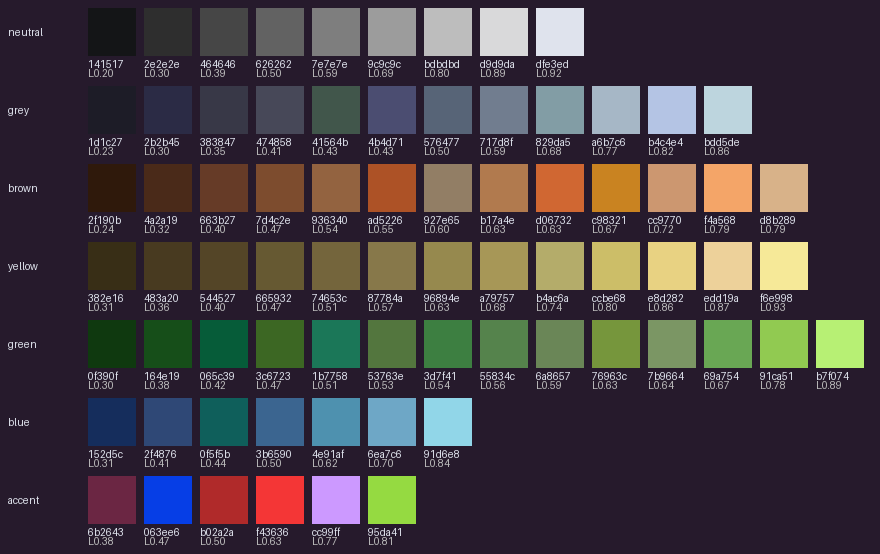
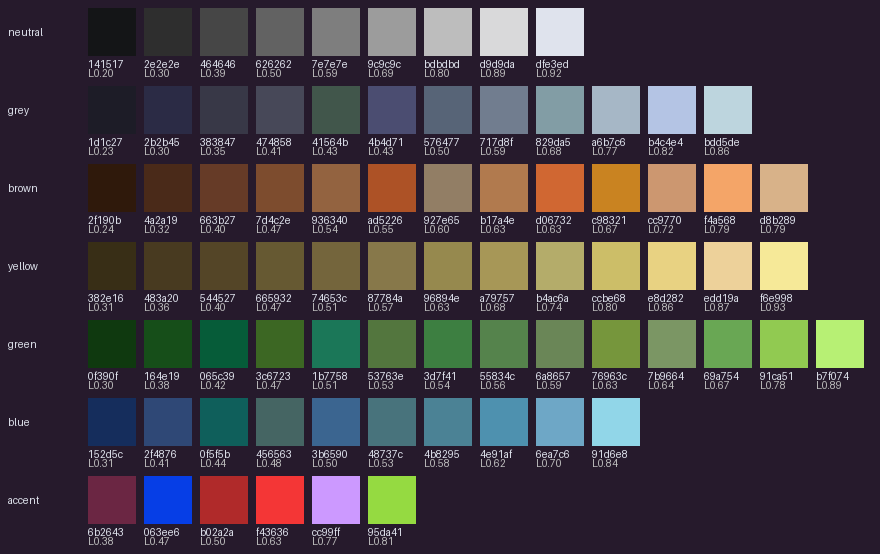
Overworld: swamp water tints in four steps away from open water; the sea sways
- three lake-to-murk OKLab blends added to the blue ramp (77 colours),
  kept out of pack quantization; theme/debug blue indices renumbered
- swampLevels: capped BFS through water; one shader pass per tint step,
  each dithered at its edge like a shade overlay

Changed region(s): [[0.2761, 0.7058, 0.7364, 0.8592]]

diff --git a/src/render/overworld_renderer.cpp b/src/render/overworld_renderer.cpp
@@ -265,6 +265,7 @@ void OverworldRenderer::loadTextures() {
   m_locLayer = GetShaderLocation(m_fade, "layer");
   m_locSwampWater = GetShaderLocation(m_fade, "swampWater");
   m_locSway = GetShaderLocation(m_fade, "sway");
+  m_locLevel = GetShaderLocation(m_fade, "level");
 }
 
 Color OverworldRenderer::biomeColour(Biome b) {
@@ -325,6 +326,32 @@ void OverworldRenderer::shareWithin(const std::vector<uint8_t> &in,
   }
 }
 
+void OverworldRenderer::swampLevels(const std::vector<uint8_t> &water,
+                                    const std::vector<uint8_t> &swamp, int w, int h,
+                                    std::vector<uint8_t> &out) {
+  const int n = w * h;
+  out.assign(n, (uint8_t)kSwampSteps);
+  std::vector<int> queue;
+  for (int k = 0; k < n; ++k)
+    if (water[k] && !swamp[k]) {
+      out[k] = 0;
+      queue.push_back(k);
+    }
+  for (size_t head = 0; head < queue.size(); ++head) {
+    const int k = queue[head], x = k % w, y = k / w;
+    if (out[k] + 1 >= kSwampSteps)
+      continue;
+    for (int dy = -1; dy <= 1; ++dy)
+      for (int dx = -1; dx <= 1; ++dx) {
+        const int nx = x + dx, ny = y + dy, nk = ny * w + nx;
+        if (nx < 0 || ny < 0 || nx >= w || ny >= h || !swamp[nk] || out[nk] <= out[k] + 1)
+          continue;
+        out[nk] = (uint8_t)(out[k] + 1);
+        queue.push_back(nk);
+      }
+  }
+}
+
 void OverworldRenderer::renderTerrain(const Overworld &world,
                                       const Camera2D &camera,
                                       const Viewport &canvas, float time) {
@@ -335,9 +362,7 @@ void OverworldRenderer::renderTerrain(const Overworld &world,
   m_time = time;
   m_world = &world;
 
-  // Dual-grid vertices x0..x0+w each read the cells on both sides, and a
-  // fade weight reads kFadeRadius further: the cache reaches that far out.
-  constexpr int kMargin = 1 + kFadeRadius;
+  constexpr int kMargin = kCacheMargin;
   m_cellsX0 = x0 - kMargin;
   m_cellsY0 = y0 - kMargin;
   m_cellsW = w + 2 * kMargin;
@@ -371,9 +396,9 @@ void OverworldRenderer::renderTerrain(const Overworld &world,
                        {0, 0}, 0.0f, WHITE);
         continue;
       }
-      // Still water, by world position; lakes sway, the sea does not.
-      const int s = c.biome == Biome::OCEAN ? 0 : sway;
-      Rectangle src = {(float)(x * grid::SOURCE_TILE + s), (float)(y * grid::SOURCE_TILE + s),
+      // Still water, by world position, swaying.
+      Rectangle src = {(float)(x * grid::SOURCE_TILE + sway),
+                       (float)(y * grid::SOURCE_TILE + sway),
                        (float)grid::SOURCE_TILE, (float)grid::SOURCE_TILE};
       DrawTexturePro(m_water, src, grid::destFor(src, x * grid::CELL, y * grid::CELL),
                      {0, 0}, 0.0f, WHITE);
@@ -420,19 +445,20 @@ void OverworldRenderer::drawGlints(int x0, int y0, int w, int h) const {
 
 // Per cell of the view (plus the one-cell rim the dual grid reads): how much
 // of each land fade material is there - its share of the grass's cells
-// within kFadeRadius, so a shore never thins a fade - and which cells are
-// land and which swamp water. Uploaded as two small textures; the shader
-// reads the weights bilinear and the flags per cell. Also marks how near a
+// within kFadeRadius, so a shore never thins a fade - which cells are land,
+// and each water cell's swamp step. Uploaded as two small textures; the
+// shader reads the weights bilinear and the rest per cell. Also marks how near a
 // beach each cache cell is, for the bank rows.
 void OverworldRenderer::buildFades(int x0, int y0, int w, int h) {
   const int n = m_cellsW * m_cellsH;
-  std::vector<uint8_t> land(n), all(n, 1);
+  std::vector<uint8_t> land(n), water(n), all(n, 1), levels;
   std::vector<uint8_t> in[6]; // wetland, gravel, snow, drift, swamp, beach
   for (auto &v : in)
     v.resize(n);
   for (int k = 0; k < n; ++k) {
     const Cell &c = m_cells[k];
     land[k] = inLayer(GRASS, c.biome, c.shade);
+    water[k] = isWater(c.biome);
     in[0][k] = c.biome == Biome::WETLAND;
     in[1][k] = c.biome == Biome::MOUNTAIN || c.biome == Biome::SNOW; // gravel runs under snow
     in[2][k] = c.biome == Biome::SNOW;
@@ -443,6 +469,7 @@ void OverworldRenderer::buildFades(int x0, int y0, int w, int h) {
   std::vector<float> share[4], beach1, beach2;
   for (int f = 0; f < 4; ++f)
     shareWithin(in[f], land, m_cellsW, m_cellsH, kFadeRadius, share[f]);
+  swampLevels(water, in[4], m_cellsW, m_cellsH, levels);
   shareWithin(in[5], all, m_cellsW, m_cellsH, 1, beach1);
   shareWithin(in[5], all, m_cellsW, m_cellsH, 2, beach2);
   for (int k = 0; k < n; ++k)
@@ -459,11 +486,13 @@ void OverworldRenderer::buildFades(int x0, int y0, int w, int h) {
     u = false;
   for (int j = 0; j < th; ++j) {
     for (int i = 0; i < tw; ++i) {
-      const int k = (j + kFadeRadius) * m_cellsW + (i + kFadeRadius);
+      const int k = (j + kCacheMargin - 1) * m_cellsW + (i + kCacheMargin - 1);
       Color &wpx = m_weightPx[j * tw + i];
       wpx = {byte(share[0][k]), byte(share[1][k]), byte(share[2][k]), byte(share[3][k])};
+      // g: the swamp step in quarters (texelFetch reads it back exactly).
       m_infoPx[j * tw + i] = {(unsigned char)(land[k] ? 255 : 0),
-                              (unsigned char)(in[4][k] ? 255 : 0), 0, 255};
+                              (unsigned char)(water[k] ? levels[k] * 255 / kSwampSteps : 0),
+                              0, 255};
       m_fadeUsed[FADE_SWAMP] |= in[4][k] != 0;
       m_fadeUsed[FADE_WETLAND] |= wpx.r > 0;
       m_fadeUsed[FADE_GRAVEL] |= wpx.g > 0;
@@ -492,6 +521,14 @@ void OverworldRenderer::buildFades(int x0, int y0, int w, int h) {
 void OverworldRenderer::drawFade(int fade, int x0, int y0, int w, int h) const {
   if (!m_fadeUsed[fade] || m_fade.id == 0)
     return;
+  // Swamp water is one pass per tint step, each over the one before.
+  const int passes = fade == FADE_SWAMP ? kSwampSteps : 1;
+  for (int level = 1; level <= passes; ++level)
+    drawFadePass(fade, level, x0, y0, w, h);
+}
+
+void OverworldRenderer::drawFadePass(int fade, int level, int x0, int y0, int w,
+                                     int h) const {
   BeginShaderMode(m_fade);
   SetShaderValueTexture(m_fade, m_locWeights, m_weights);
   SetShaderValueTexture(m_fade, m_locInfo, m_info);
@@ -501,6 +538,7 @@ void OverworldRenderer::drawFade(int fade, int x0, int y0, int w, int h) const {
   SetShaderValueTexture(m_fade, m_locSwampWater, m_swampWater);
   const int sway[2] = {swayAt(m_time), swayAt(m_time)};
   SetShaderValue(m_fade, m_locSway, sway, SHADER_UNIFORM_IVEC2);
+  SetShaderValue(m_fade, m_locLevel, &level, SHADER_UNIFORM_INT);
   const Rectangle src = {(float)(x0 * grid::SOURCE_TILE), (float)(y0 * grid::SOURCE_TILE),
                          (float)(w * grid::SOURCE_TILE), (float)(h * grid::SOURCE_TILE)};
   DrawTexturePro(m_fades, src, grid::destFor(src, x0 * grid::CELL, y0 * grid::CELL),

diff --git a/src/render/overworld_renderer.hpp b/src/render/overworld_renderer.hpp
@@ -35,12 +35,13 @@
 // bilinear, beats an ordered-dither threshold - so any two of them blend over
 // several tiles. Land fades are clipped to the grass's corner shapes at the
 // shore and take their own outline colour there. Swamp water goes through
-// the same shader but fades like a shade overlay: per dual-grid corner, a
-// mask chosen by which cells are open water dithers it out over a few px.
+// the same shader in steps (swampLevels): four tints, lake blue toward murk,
+// each covering the swamp cells at least that far from open water. Like the
+// shade overlays, each step dithers out over a few px at its edge.
 //
 // STILL WATER is one repeating texture sampled at world position, like the
-// river; lakes and swamps sway it a pixel or two along the diagonal, and a
-// few open-water tiles glint.
+// river; lakes, swamps and the sea sway it a pixel or two along the
+// diagonal, and a few open-water tiles glint.
 //
 // ROOTS IN WATER: where one of the widest-rooted props (willow, the big
 // oak) spills onto a river tile, that slice laps through dry, foam line,
@@ -93,6 +94,14 @@ public:
                           int radius, std::vector<float> &out);
   // How far (tiles) a fade reaches either side of a border.
   static constexpr int kFadeRadius = 2;
+  // Swamp water's tint steps: a swamp cell d steps from open water (through
+  // water, 8-connected) takes step min(d, kSwampSteps); open water is 0,
+  // land and cells no open water reaches within the grid kSwampSteps.
+  // A capped multi-source BFS. Pure.
+  static constexpr int kSwampSteps = 4;
+  static void swampLevels(const std::vector<uint8_t> &water,
+                          const std::vector<uint8_t> &swamp, int w, int h,
+                          std::vector<uint8_t> &out);
 
   // The sprite a prop draws as. Pure: same prop, same sprite.
   static owsprite::Id spriteFor(PropType type, Biome biome, uint8_t variant);
@@ -133,6 +142,7 @@ private:
   void drawLayer(int layer, int x0, int y0, int w, int h, int frame) const;
   void buildFades(int x0, int y0, int w, int h);
   void drawFade(int fade, int x0, int y0, int w, int h) const;
+  void drawFadePass(int fade, int level, int x0, int y0, int w, int h) const;
   void drawDecals(int x0, int y0, int w, int h) const;
   void drawGlints(int x0, int y0, int w, int h) const;
   // A cached cell, by world (unwrapped) tile.
@@ -144,7 +154,7 @@ private:
       m_shades{}, m_fades{}, m_props{}, m_propsWet{};
   Shader m_fade{};
   int m_locWeights = -1, m_locInfo = -1, m_locOrigin = -1, m_locLayer = -1,
-      m_locSwampWater = -1, m_locSway = -1;
+      m_locSwampWater = -1, m_locSway = -1, m_locLevel = -1;
   // The fade shader's per-cell data, rebuilt per frame: textures, their
   // pixels, the world cell of texel (0, 0), and which fades are in view.
   Texture2D m_weights{}, m_info{};
@@ -154,9 +164,12 @@ private:
   const Overworld *m_world = nullptr;
   Vector2 m_focus{};
   float m_time = 0.0f; // renderTerrain's, for the lapping roots, glints and sway
-  // The cells around the view, kFadeRadius + 1 past it on every side,
-  // rebuilt per frame so the layers' lookups are array reads rather than
-  // chunk queries.
+  // The cells around the view, kCacheMargin past it on every side, rebuilt
+  // per frame so the layers' lookups are array reads rather than chunk
+  // queries. The dual grid reads 1 cell past the view, and from there a fade
+  // weight reads kFadeRadius further and a swamp step up to kSwampSteps - 1.
+  static constexpr int kCacheMargin =
+      1 + (kFadeRadius > kSwampSteps - 1 ? kFadeRadius : kSwampSteps - 1);
   std::vector<Cell> m_cells;
   int m_cellsX0 = 0, m_cellsY0 = 0, m_cellsW = 0, m_cellsH = 0;
 };

diff --git a/tools/build_overworld_sheets.py b/tools/build_overworld_sheets.py
@@ -19,7 +19,11 @@ Outputs, all the renderer loads:
                   with itself, with light dashes and a few lighter ones; the
                   renderer samples it by world position plus a slow
                   diagonal sway
-  ow_swamp_water.png  swamp water, the same way: murk flecked with duckweed
+  ow_swamp_water.png  swamp water, the same way: murk flecked with duckweed,
+                  in four 64px squares stacked down the sheet - three tints
+                  a quarter, half and three quarters of the way from lake
+                  blue to the murk, then the murk itself. The renderer steps
+                  through them away from open water
   ow_glints.png   a glint's three frames (a spark, a cross, a spark)
   ow_river.png    flowing water: one 64px square that tiles with itself, which
                   the renderer scrolls downstream (dashes a little denser than
@@ -422,15 +426,29 @@ def water_sheet():
     return dashed_water(6, 17, [("#91d6e8", 0.25), ("#6ea7c6", 0.75)])
 
 
+# Swamp water's tints, open water toward full murk: the murk (and what the
+# duckweed and ripples become) per step. The blends are the OKLab mixes of
+# lake blue #4e91af and murk #41564b at 1/4, 1/2 and 3/4, added to the
+# palette for this; the faintest step has no duckweed yet.
+SWAMP_BLENDS = ["#4b8295", "#48737c", "#456563"]
+SWAMP_TINTS = [
+    {"#41564b": "#4b8295", "#3d7f41": "#4b8295", "#6a8657": "#4b8295", "#576477": "#6ea7c6"},
+    {"#41564b": "#48737c", "#3d7f41": "#456563", "#576477": "#4b8295"},
+    {"#41564b": "#456563"},
+    {},
+]
+
+
 def swamp_water_sheet():
-    """Swamp water: the swamp fills laid 4 x 4 in a fixed shuffle. Their
-    flecks stay off the tile edges, so the square tiles with itself."""
+    """Swamp water: the swamp fills laid 4 x 4 in a fixed shuffle (their
+    flecks stay off the tile edges, so the square tiles with itself), once
+    per tint, the squares stacked down the sheet."""
     fills = swamp_fills()
     order = np.random.default_rng(41).permutation(16) % len(fills)
     a = np.zeros((4 * T, 4 * T, 4), np.uint8)
     for i, v in enumerate(order):
         a[i // 4 * T:(i // 4 + 1) * T, i % 4 * T:(i % 4 + 1) * T] = fills[v]
-    return a
+    return np.concatenate([recolour(a, tint) for tint in SWAMP_TINTS], axis=0)
 
 
 def glints_sheet():
@@ -633,8 +651,9 @@ def fades_sheet(src, pal):
 
 
 def swamp_masks(lb):
-    """Where swamp water draws on a dual-grid corner, by `open` - the corner's
-    open-water cells (TL=8 TR=4 BL=2 BR=1). Land counts with the swamp: the
+    """Where a swamp tint draws on a dual-grid corner, by `open` - the
+    corner's water cells below that tint (TL=8 TR=4 BL=2 BR=1). Land counts
+    with the swamp: the
     bank covers it either way, and the swamp then reaches right to its shore.
     Like a shade overlay, the swamp dithers out over SHADE_BAND px inward
     from LightBorne's shape. Column 15 (all open water) stays clear."""
@@ -836,7 +855,10 @@ def main():
     ap.add_argument("--dump", help="also write every quantized crop here, for review")
     a = ap.parse_args()
     pal = load_palette(a.palette)
-    src = load_sources(a.packs, pal)
+    # The swamp blends were mixed for the generated swamp water; kept out of
+    # the packs' quantization so no tree pixel snaps to them.
+    keep = np.array([tuple(c) not in {hexrgb(h) for h in SWAMP_BLENDS} for c in pal[0]])
+    src = load_sources(a.packs, (pal[0][keep], pal[1][keep]))
     src["gen"] = generated_decals(src)
     if a.dump:
         os.makedirs(a.dump, exist_ok=True)

diff --git a/src/core/palette.hpp b/src/core/palette.hpp
@@ -91,15 +91,18 @@ inline constexpr Color green[14] = {
     Color{183, 240, 116, 255},  // 13 #b7f074
 };
 
-inline constexpr int blueSteps = 7;
-inline constexpr Color blue[7] = {
+inline constexpr int blueSteps = 10;
+inline constexpr Color blue[10] = {
     Color{ 21,  45,  92, 255},  //  0 #152d5c
     Color{ 47,  72, 118, 255},  //  1 #2f4876
     Color{ 15,  95,  91, 255},  //  2 #0f5f5b
-    Color{ 59, 101, 144, 255},  //  3 #3b6590
-    Color{ 78, 145, 175, 255},  //  4 #4e91af
-    Color{110, 167, 198, 255},  //  5 #6ea7c6
-    Color{145, 214, 232, 255},  //  6 #91d6e8
+    Color{ 69, 101,  99, 255},  //  3 #456563
+    Color{ 59, 101, 144, 255},  //  4 #3b6590
+    Color{ 72, 115, 124, 255},  //  5 #48737c
+    Color{ 75, 130, 149, 255},  //  6 #4b8295
+    Color{ 78, 145, 175, 255},  //  7 #4e91af
+    Color{110, 167, 198, 255},  //  8 #6ea7c6
+    Color{145, 214, 232, 255},  //  9 #91d6e8
 };
 
 inline constexpr int accentSteps = 6;
@@ -112,7 +115,7 @@ inline constexpr Color accent[6] = {
     Color{149, 218,  65, 255},  //  5 #95da41
 };
 
-inline constexpr int totalColours = 74;
+inline constexpr int totalColours = 77;
 
 // Every colour in strip order, for the conformance test and any future
 // palette texture upload.

diff --git a/tests/test_overworld.cpp b/tests/test_overworld.cpp
@@ -580,6 +580,28 @@ TEST(OverworldRendererTest, FadeShareRampsAcrossABorder) {
   EXPECT_FLOAT_EQ(s[row + 5], 0.5f);
 }
 
+TEST(OverworldRendererTest, SwampStepsRiseAwayFromOpenWater) {
+  // 12 x 5, all water: open in columns 0-1, swamp from column 2 on.
+  constexpr int W = 12, H = 5;
+  std::vector<uint8_t> water(W * H, 1), swamp(W * H);
+  for (int k = 0; k < W * H; ++k)
+    swamp[k] = k % W >= 2;
+  std::vector<uint8_t> lv;
+  OverworldRenderer::swampLevels(water, swamp, W, H, lv);
+  const int row = 2 * W;
+  const int want[W] = {0, 0, 1, 2, 3, 4, 4, 4, 4, 4, 4, 4};
+  for (int x = 0; x < W; ++x)
+    EXPECT_EQ(lv[row + x], want[x]) << "column " << x;
+
+  // A land column at 4 cuts the swamp beyond it off from the open water:
+  // steps are counted through water only.
+  for (int y = 0; y < H; ++y)
+    water[y * W + 4] = swamp[y * W + 4] = 0;
+  OverworldRenderer::swampLevels(water, swamp, W, H, lv);
+  EXPECT_EQ(lv[row + 3], 2);
+  EXPECT_EQ(lv[row + 5], OverworldRenderer::kSwampSteps);
+}
+
 TEST(OverworldRendererTest, SpriteFramesDoNotOverlapInTheAtlas) {
   using owsprite::kFrames;
   for (int i = 0; i < owsprite::COUNT; ++i) {

diff --git a/src/dev/debug_overlay.cpp b/src/dev/debug_overlay.cpp
@@ -492,8 +492,8 @@ void DebugOverlay::generateIslandMap(const Overworld &world) {
       if (m_islandView == 0) {
         c = OverworldRenderer::biomeColour(s.biome);
       } else if (s.height < 0.0f) {
-        // Deep to shallow; blue[2] is the teal pine colour, not a water step.
-        static constexpr int kDepth[] = {0, 1, 3};
+        // Deep to shallow; blue[2] is the teal pine, 3, 5 and 6 the swamp blends.
+        static constexpr int kDepth[] = {0, 1, 4};
         c = pal::blue[kDepth[std::clamp(2 + (int)(s.height * 8.0f), 0, 2)]];
       } else {
         c = pal::neutral[std::clamp(1 + (int)(s.height * 7.0f), 1, 7)];

diff --git a/src/render/theme.hpp b/src/render/theme.hpp
@@ -30,8 +30,8 @@ inline constexpr Color radiationGlow = pal::accent[5];  // barrel halos, additiv
 // Overworld biome fills: the debug island map paints these (the surface
 // itself draws its tile sheets).
 inline constexpr Color ocean = pal::blue[0];
-inline constexpr Color lake = pal::blue[3];
-inline constexpr Color river = pal::blue[4];
+inline constexpr Color lake = pal::blue[4];
+inline constexpr Color river = pal::blue[7];
 inline constexpr Color swamp = pal::grey[4];
 inline constexpr Color beach = pal::yellow[9];
 inline constexpr Color grassland = pal::green[11];

diff --git a/CLAUDE.md b/CLAUDE.md
@@ -162,7 +162,7 @@ Data and presentation are strictly separated: `MazeRenderer` (terrain), `PlayerR
 
 The workshop furniture sheet is the one asset that was not authored at this density: the pack draws a locker on 2×4 tiles where the game places it on 1×2 cells. `assets/PostApoc_Workshop_16px.png` is the pack sheet halved by `tools/downsample_sheet.py` (box-average, snap to the sheet's own colours, and a three-way alpha vote that keeps the drop shadows partial — flattening them turns table undersides into slabs). Regenerate it from `../Asset packs/PostApoc_Workshop/PostApoc_Workshop_WithShadow.png` rather than editing it by hand; a 32-based pack (`Mobs/`) goes through the same tool before it enters `assets/`. Once halved, that sheet is an 8px atlas, so some of its rectangles are written in art pixels rather than tiles. `PostApoc_Workshop_Icons.png` is already 16px inventory icons and is used as-is.
 
-**Every sheet in `assets/` is quantized to the master palette** (`assets/palette.json`, 74 colours in 7 ramps, one palette for both worlds; reasoning and maintenance rules in `docs/palette.md`). `python tools/quantize.py <src> assets/<name>.png` is how a sheet enters `assets/` (the overworld sheets `ow_water/swamp_water/glints/river/coast/terrain/shades/fades/props/props_wet.png` and the generated `src/render/overworld_sprites.hpp` are built instead by `tools/build_overworld_sheets.py`, which records every crop and edit), and `python tools/quantize.py --check assets/` must report 100 % — a stray colour is a defect. Sources stay outside `assets/` so a palette change re-quantizes from the original. `tools/palette_sample.py` re-derives a proposal from the packs; it proposes, a human approves - and a run without `--render` overwrites `palette.json` with its 56-colour proposal, dropping the hand-added overworld colours. C++ never spells a colour: `src/core/palette.hpp` is the palette as `constexpr Color` ramps, **generated** by `tools/palette_header.py` from the JSON (re-run after any palette edit; `PaletteHeader.MatchesStrip` fails if header and strip drift), and `src/render/theme.hpp` maps hand-chosen roles (`theme::ink`, `theme::bad`, `theme::radiationGlow`…) onto ramp steps. UI and renderers name a role; only `DrawTexture` tints stay `WHITE`.
+**Every sheet in `assets/` is quantized to the master palette** (`assets/palette.json`, 77 colours in 7 ramps, one palette for both worlds; reasoning and maintenance rules in `docs/palette.md`). `python tools/quantize.py <src> assets/<name>.png` is how a sheet enters `assets/` (the overworld sheets `ow_water/swamp_water/glints/river/coast/terrain/shades/fades/props/props_wet.png` and the generated `src/render/overworld_sprites.hpp` are built instead by `tools/build_overworld_sheets.py`, which records every crop and edit), and `python tools/quantize.py --check assets/` must report 100 % — a stray colour is a defect. Sources stay outside `assets/` so a palette change re-quantizes from the original. `tools/palette_sample.py` re-derives a proposal from the packs; it proposes, a human approves - and a run without `--render` overwrites `palette.json` with its 56-colour proposal, dropping the hand-added overworld colours. C++ never spells a colour: `src/core/palette.hpp` is the palette as `constexpr Color` ramps, **generated** by `tools/palette_header.py` from the JSON (re-run after any palette edit; `PaletteHeader.MatchesStrip` fails if header and strip drift), and `src/render/theme.hpp` maps hand-chosen roles (`theme::ink`, `theme::bad`, `theme::radiationGlow`…) onto ramp steps. UI and renderers name a role; only `DrawTexture` tints stay `WHITE`.
 
 Two more derived assets: `mushrooms_pixel_asset.png` is no longer the pack sheet but a PixelLab img2img pass over a 0.7× shrink of it, forced to the pack's palette and then hand-trimmed to 3 columns (six variants per kind; the renderer's hash is `% 6`), so mushrooms stay small on the 2× grid; `workshop_prop_icons.png` holds the paper and pencil inventory icons cut at native 1:1 from the pack's furniture sheet — UI icons are stretched into a slot in window space, so they sit outside the world-density rule. Two deliberate exceptions to "everything at 2×": those two icons, and the magic book, drawn at 1.5× because at a full cell it swallowed its table.
 
@@ -211,7 +211,7 @@ The surface is a 3072×3072-tile world that wraps like the maze, with a ~2k-tile
 - **`IslandMap`** (`world/generators/island_generator.*`) — whole-island passes on a coarse grid (1 cell = 8×8 tiles): ocean flood, priority-flood depression filling, lakes, D8 drainage, flow accumulation, rivers (cells with enough upstream area, so every river ends in a lake or the ocean by construction), swamps (~1 in 3 warm lakes in a band 15-25 % of the way inland, then every lake in that band whose banks would be wetland - so swamps form regions and no open lake sits in a marsh - plus the river cells near them along the flow), and Euclidean distance fields to water, ocean and swamp water. `Island` (`world/island.*`) combines both: `sample(x, y)` classifies any tile in O(1) (ocean → lake/swamp → marsh → river/swamp → `biome::classifyLand`, a Whittaker lookup in `world/biome.hpp`) and picks the spawn. Coarse data reaches tiles only through smooth fields - bilinear distances, never a yes/no per coarse cell, which cuts land into 8-tile squares (the beach once did). It also gives each tile a `shade` step (grassland open/meadow edge, forest edge/deep, snow plain/drift) that the renderer fades by and prop density follows, and river tiles a `flow` byte (`flowStep`: one of 8 downstream directions, from the nearest reach) that the renderer scrolls the water by.
 - **`Overworld`** (`world/overworld.*`) — the `World` implementation. Tiles live in 32×32 **chunks** generated on demand and dropped by `retainAround` (memory scales with the view, not the world). A chunk is sampled with a `shoreline::kPasses`-tile apron and run through `shoreline::tidy` (`world/shoreline.hpp`), which floods one-tile nubs, one-wide strips and corner-only water joins - shapes the corner tiles draw as a cut channel - and is exact inside the apron, so chunks agree at their borders. `Island::sample` is the untidied classification. Props come from per-chunk Bridson Poisson-disc points (`world/generators/poisson.*`), thinned by a biome density roll; a chunk yields any point within `kPropSpacing` of a higher-priority (lower-index) neighbour's point, so spacing holds across borders whatever the build order. Player changes (a removed prop) live in a sparse **change record** outside the chunks and are re-applied on every rebuild. Water is walkable for now (no swimming/boat until Phase 9).
 
-`OverworldRenderer` draws the ground in two ways. **Tiled layers** (ground, grass, the shade overlays) are autotiled on a **dual grid**: each tile sits on a cell corner and picks one of 16 shapes from the 4 cells meeting there (`cornerMask`, TL=8 TR=4 BL=2 BR=1). The ground layer's edge is chosen per corner: High Tides' sand-and-foam coast (animated off `m_totalTime`) where ocean or beach meets it, else a generated mud bank (LightBorne's shapes grown 4 px into lakes and rivers) that pales in two steps toward tan near a beach. A layer must also cover the cells of any layer that sits on it, or a rim of the layer below shows. **Shade overlays** (`ow_shades.png`: grass → meadow → forest → deep forest) are recoloured grass that dithers out along LightBorne's wobble; their corners have three states (off grass / grass / shaded, 81 tiles per overlay) so they fade into grass but cut cleanly against water. **Fades** (wetland, gravel, snow, drifts) have no tiles: `drawFade` draws each as one quad over the view through `assets/ow_fade.fs`, which keeps a pixel where the material's per-cell weight, read bilinear, beats a clumpy noise-plus-Bayer threshold - so any two blend over ~5 tiles. The weights are rebuilt per frame into two small textures (`buildFades`): their share of the grass cells within `kFadeRadius` (`shareWithin`, summed-area tables). Swamp water goes through the same shader but fades like a shade overlay: per dual-grid corner, a mask picked by which cells are open water (row 0 of `ow_fades.png`) dithers it out over a few px. Land fades are clipped to the grass's LightBorne shape at the shore and take their own outline colour there (`ow_fades.png` holds the fills, outline colours and coded corner shapes). Weights only ever nest (snow ≤ gravel, drift ≤ snow), so snow never draws off its gravel. River water is `ow_river.png`, repeat-wrapped and sampled at world position shifted downstream by time along the tile's `flow`; still water (`ow_water.png`, and `ow_swamp_water.png` in the shader) is sampled the same way, and lakes and swamps sway it a px or two along the diagonal (`swayAt`). A few open-water tiles glint (`drawGlints`, `ow_glints.png`). Ground details (`decalFor`: flowers, tufts, mushrooms, pebbles, snow-capped stones, sticks, snow mounds, ice, shells, river stones near a shore) are render-only, picked per tile by hash and drawn flat after the layers. Where one of the widest-rooted trees (willow, the biggest Pixel Crawler oak - `LAPPING` in the build script) spills its roots onto a river, that slice laps through dry / foam line / sunk / foam line (`ow_props_wet.png` holds the foam and sunk copies); on still water roots draw as they are. Props go through the shared `DrawQueue`; the world only says TREE/PINE/BUSH/ROCK/REEDS plus a hash byte, and `OverworldRenderer::spriteFor` picks the species from a per-(kind, biome) weighted pool — species becomes world data when gameplay needs it. Sprites are up to 16 tiles tall, so `collect` scans `kReachBelowTiles` rows below the screen and the queue's range is widened to match; a prop covering the player draws faded (`setFocus`). `theme::ocean`…`theme::snow` now only paint the debug island map. The debug panel's overworld view (`DebugOverlay::render(Player&, Overworld&, …)`) shows island stats, a biome/height map, and raises `triggerNewIsland` / `triggerRemoveProp`, which `OverworldState` drains. In both worlds a click on the debug map raises `triggerTeleport`; the state moves the player there, snapped to the nearest open tile (`World::nearestOpenCell`).
+`OverworldRenderer` draws the ground in two ways. **Tiled layers** (ground, grass, the shade overlays) are autotiled on a **dual grid**: each tile sits on a cell corner and picks one of 16 shapes from the 4 cells meeting there (`cornerMask`, TL=8 TR=4 BL=2 BR=1). The ground layer's edge is chosen per corner: High Tides' sand-and-foam coast (animated off `m_totalTime`) where ocean or beach meets it, else a generated mud bank (LightBorne's shapes grown 4 px into lakes and rivers) that pales in two steps toward tan near a beach. A layer must also cover the cells of any layer that sits on it, or a rim of the layer below shows. **Shade overlays** (`ow_shades.png`: grass → meadow → forest → deep forest) are recoloured grass that dithers out along LightBorne's wobble; their corners have three states (off grass / grass / shaded, 81 tiles per overlay) so they fade into grass but cut cleanly against water. **Fades** (wetland, gravel, snow, drifts) have no tiles: `drawFade` draws each as one quad over the view through `assets/ow_fade.fs`, which keeps a pixel where the material's per-cell weight, read bilinear, beats a clumpy noise-plus-Bayer threshold - so any two blend over ~5 tiles. The weights are rebuilt per frame into two small textures (`buildFades`): their share of the grass cells within `kFadeRadius` (`shareWithin`, summed-area tables). Swamp water goes through the same shader in four tint passes, lake blue toward murk (`ow_swamp_water.png`, one square per tint): a swamp cell's step is its distance through water from open water (`swampLevels`, capped BFS), and each pass covers the cells at or past its step, dithered out at the corner like a shade overlay by a mask picked by which water cells fall short (row 0 of `ow_fades.png`). Land fades are clipped to the grass's LightBorne shape at the shore and take their own outline colour there (`ow_fades.png` holds the fills, outline colours and coded corner shapes). Weights only ever nest (snow ≤ gravel, drift ≤ snow), so snow never draws off its gravel. River water is `ow_river.png`, repeat-wrapped and sampled at world position shifted downstream by time along the tile's `flow`; still water (`ow_water.png`, and `ow_swamp_water.png` in the shader) is sampled the same way, and lakes, swamps and the sea sway it a px or two along the diagonal (`swayAt`). A few open-water tiles glint (`drawGlints`, `ow_glints.png`). Ground details (`decalFor`: flowers, tufts, mushrooms, pebbles, snow-capped stones, sticks, snow mounds, ice, shells, river stones near a shore) are render-only, picked per tile by hash and drawn flat after the layers. Where one of the widest-rooted trees (willow, the biggest Pixel Crawler oak - `LAPPING` in the build script) spills its roots onto a river, that slice laps through dry / foam line / sunk / foam line (`ow_props_wet.png` holds the foam and sunk copies); on still water roots draw as they are. Props go through the shared `DrawQueue`; the world only says TREE/PINE/BUSH/ROCK/REEDS plus a hash byte, and `OverworldRenderer::spriteFor` picks the species from a per-(kind, biome) weighted pool — species becomes world data when gameplay needs it. Sprites are up to 16 tiles tall, so `collect` scans `kReachBelowTiles` rows below the screen and the queue's range is widened to match; a prop covering the player draws faded (`setFocus`). `theme::ocean`…`theme::snow` now only paint the debug island map. The debug panel's overworld view (`DebugOverlay::render(Player&, Overworld&, …)`) shows island stats, a biome/height map, and raises `triggerNewIsland` / `triggerRemoveProp`, which `OverworldState` drains. In both worlds a click on the debug map raises `triggerTeleport`; the state moves the player there, snapped to the nearest open tile (`World::nearestOpenCell`).
 
 ### Input
 

diff --git a/docs/palette.md b/docs/palette.md
@@ -2,7 +2,7 @@
 
 **Status:** approved 2026-09-11 (`tools/palette_sample.py --config yellow12`, 56
 colours); extended for the overworld 2026-10-06 (+16, 72 colours, see
-"Overworld additions") and for the grass-to-forest fade the same day (+2, 74).
+"Overworld additions") for the grass-to-forest fade the same day (+2, 74), and for the swamp-water tints (+3, 77).
 Every PNG in `assets/` is quantized to it; `python tools/quantize.py --check assets/`
 is the acceptance test and must stay at 100 %.
 
@@ -182,6 +182,7 @@ byte-identical.
 | `#065c39` `#1b7758` | green | deep green; the teal LightBorne canopies take |
 | `#6a8657` `#7b9664` | green | LightBorne olive greens |
 | `#0f5f5b` | blue | Pixel Crawler's teal pines |
+| `#4b8295` `#48737c` `#456563` | blue | swamp water's tints (ow_swamp_water.png): the OKLab mixes of lake `#4e91af` and swamp murk `#41564b` at 1/4, 1/2, 3/4. Mixed, not sampled; the build script keeps them out of the packs' quantization, so no pack pixel snaps to them. `theme`'s blue steps were renumbered to match |
 | `#55834c` `#53763e` | green | the grass-to-forest fade (ow_shades.png): the OKLab midpoint of grass `#3d7f41` and forest floor `#6a8657`, and of grass detail `#3c6723` and `#6a8657`. Mixed, not sampled; approved over a no-new-colours version after side-by-side screenshots |
 
 Deliberate effects, kept by leaving colours *out*: Pixel Crawler grass and
